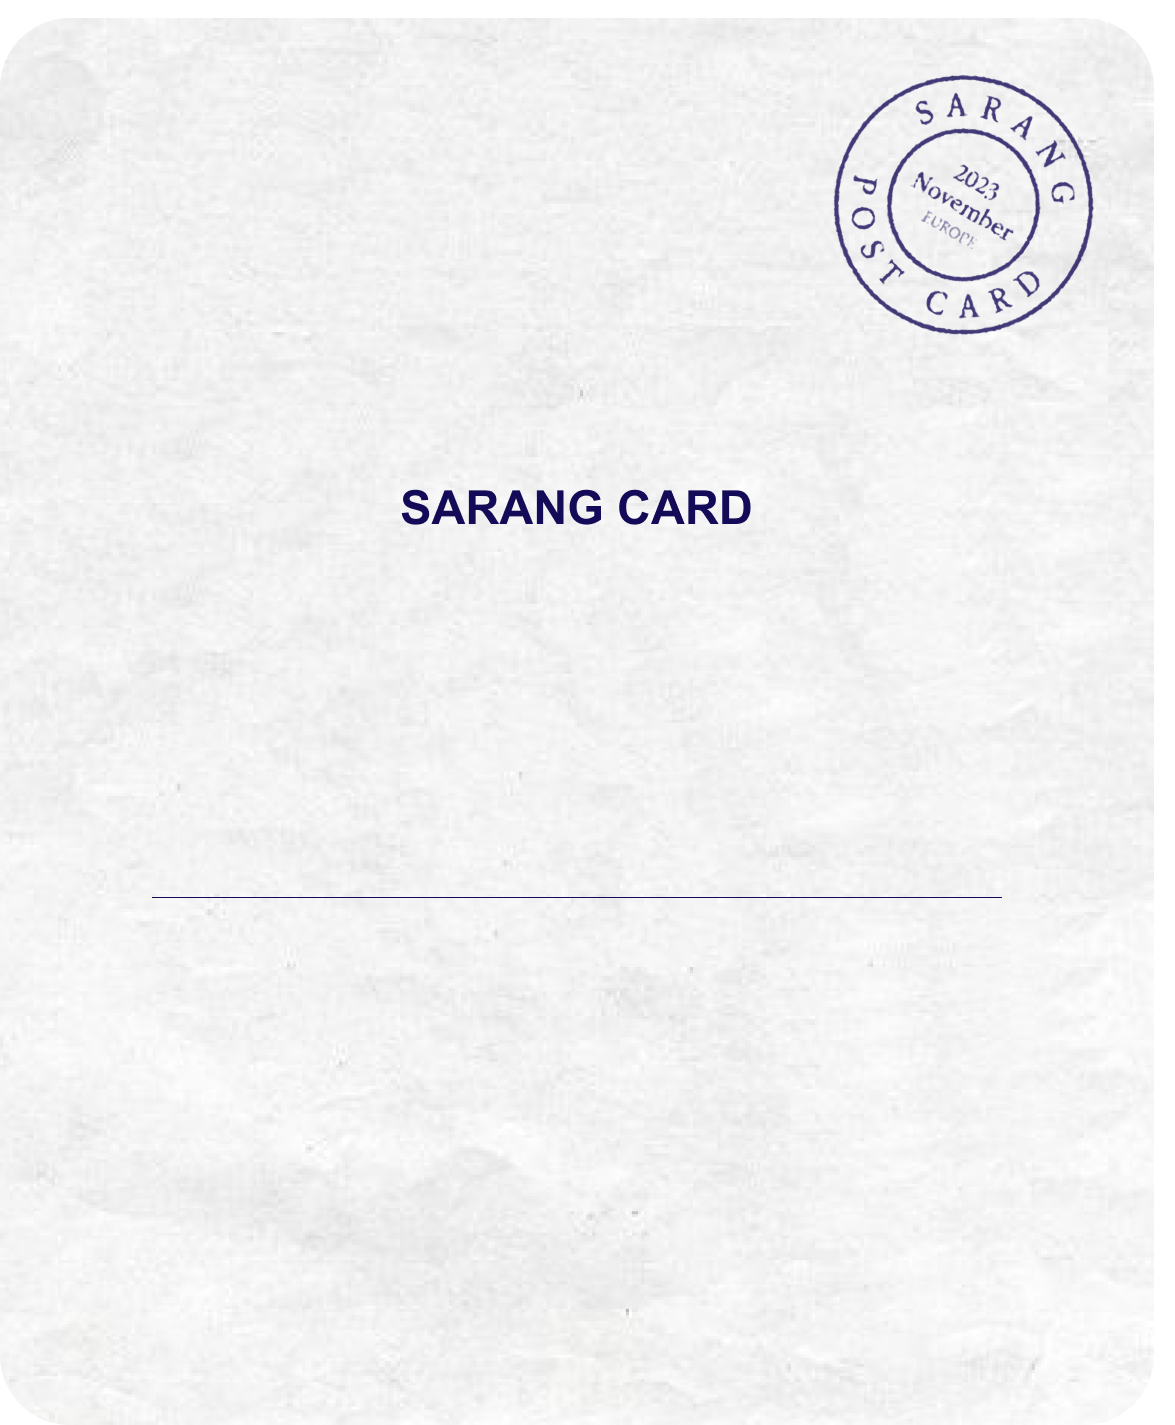
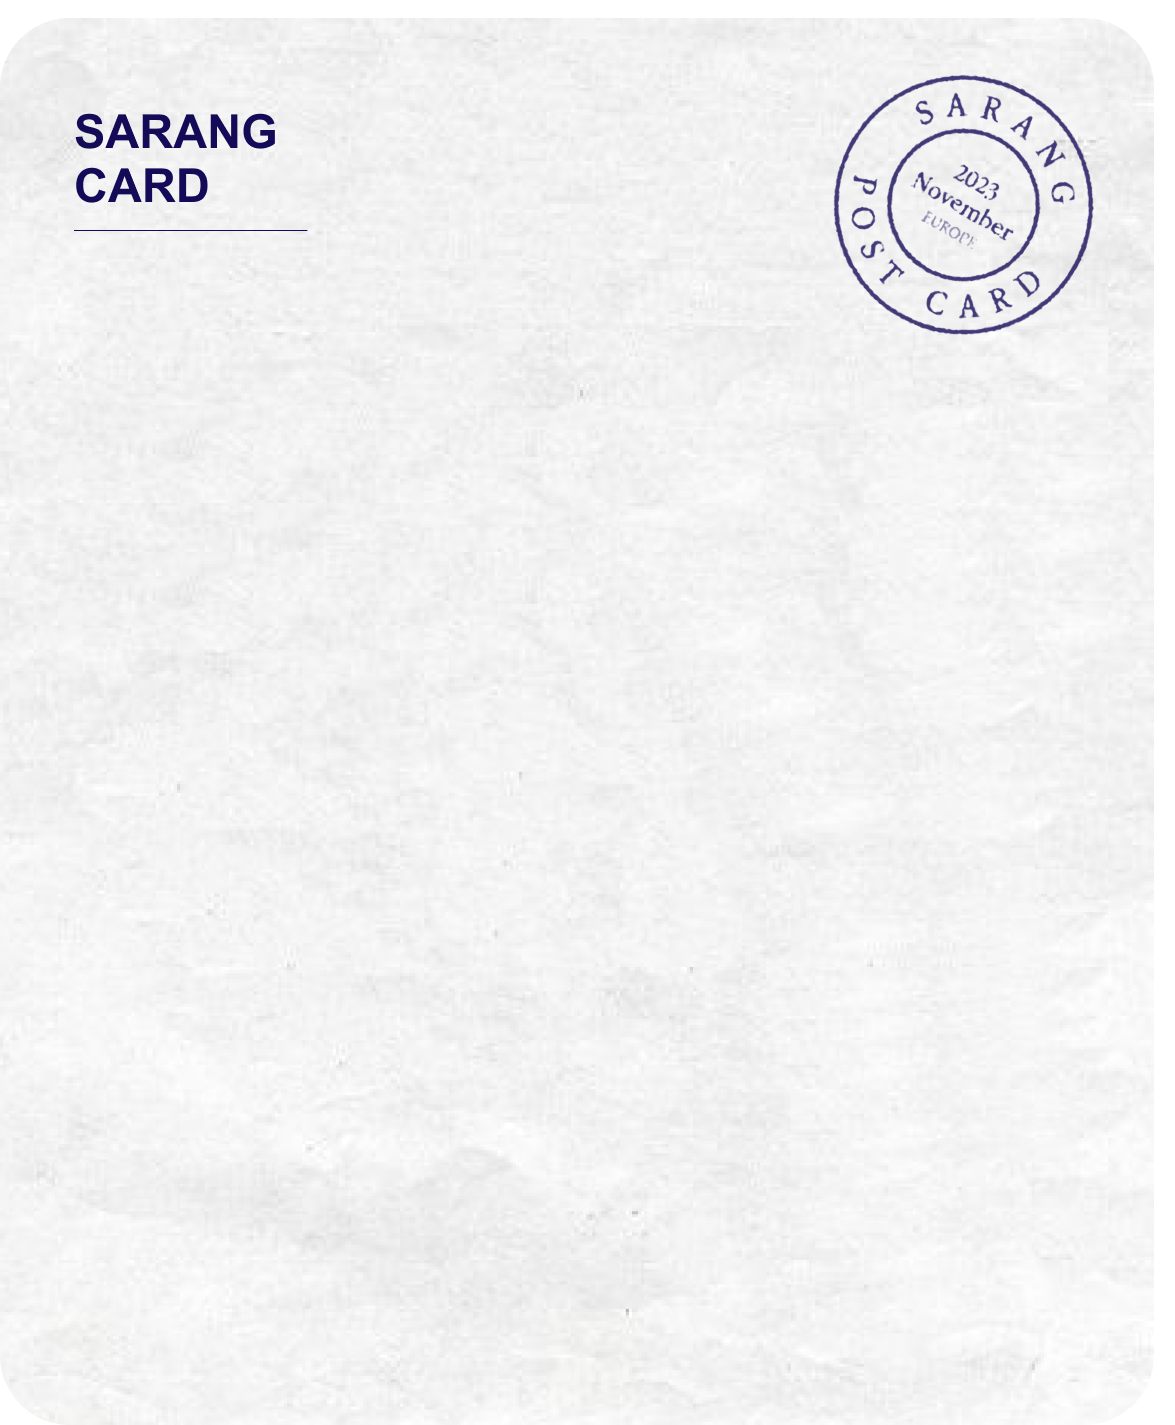
test

Changed region(s): [[0.0613, 0.0618, 0.2451, 0.1544], [0.337, 0.3396, 0.6434, 0.3705]]

diff --git a/src/components/Card.styled.css b/src/components/Card.styled.css
@@ -21,39 +21,62 @@
 }
 
 .card-text {
+    color: #140b58;
     position: absolute;
-    top: 15.5%;
+    top: 14.5%;
     left: 50%;
     transform: translate(-50%, -50%);
 
-    font-family: 'GillSans-bold';
+    font-family: Arial, Helvetica, sans-serif;
+    font-weight: bold;
 
-    font-size: 0.7rem;
+    font-size: 16px;
     text-align: center;
 }
 .card-text p {
-    width: 180px;
+    width: 160px;
+    word-break: break-all;
+    max-height: 56px;
     text-overflow: ellipsis;
     overflow: hidden;
 }
 
+.card-index {
+    position: absolute;
+
+    text-align: center;
+    top: 245px;
+    left: 0;
+    right: 0;
+    margin: auto;
+
+    font-family: Arial, Helvetica, sans-serif;
+    font-size: 9px;
+    color: #140b58;
+}
+
 .card-instagram {
+    color: #726d9d;
+
     display: flex;
     align-items: center;
-    gap: 4px;
+    gap: 1.4px;
 
     position: absolute;
-    top: 25.5%;
-    left: 50%;
-    transform: translate(-50%, -50%);
+    top: 3.9%;
+    left: 5.7%;
 
-    font-size: 0.6rem;
+    font-family: Arial, Helvetica, sans-serif;
+    font-size: 0.58rem;
+
     text-align: center;
 }
 
 .card-instagram p {
-    min-width: 24px;
+    margin-top: 10.5px;
+    min-width: 22px;
     font-family: 'GillSans';
+
     color: gray;
 }
 

diff --git a/src/components/AnswerModal.tsx b/src/components/AnswerModal.tsx
@@ -26,10 +26,12 @@ export const Modal: React.FC<Props> = ({
     });
     const [className, setClassName] = useState<string | null>(null);
     const inputs = useContext(InputContext);
-    const answerRef = React.useRef<HTMLInputElement>(null);
+    const answerRef = React.useRef<HTMLTextAreaElement>(null);
     const instaRef = React.useRef<HTMLInputElement>(null);
 
-    const handleAnswerInput = (event: React.ChangeEvent<HTMLInputElement>) => {
+    const handleAnswerInput = (
+        event: React.ChangeEvent<HTMLTextAreaElement>,
+    ) => {
         setInput((prev) => ({ ...prev, text: event.target.value }));
     };
 
@@ -107,11 +109,11 @@ export const Modal: React.FC<Props> = ({
                     className ? className : ''
                 }`}
             >
-                <input
+                <textarea
                     className="answer"
                     ref={answerRef}
-                    type="text"
                     onChange={handleAnswerInput}
+                    rows={3}
                     autoFocus
                     value={input.text}
                 />

diff --git a/src/components/AnswerModal.styled.css b/src/components/AnswerModal.styled.css
@@ -29,17 +29,17 @@
     z-index: -2;
 }
 
-.modal input.answer {
+.modal textarea.answer {
     position: absolute;
-    top: 51%;
+    top: 50%;
     left: 0;
     right: 0;
     margin: auto;
     width: calc(100% - 100px);
-    transform: translateY(60%);
 
-    font-family: 'GillSans-bold';
-    font-size: 1.16rem;
+    font-family: Arial, Helvetica, sans-serif;
+    font-size: 1.18rem;
+    font-weight: bold;
 
     background: transparent;
 
@@ -47,6 +47,8 @@
     outline: none;
 
     text-align: center;
+
+    resize: none;
 }
 
 .modal input.insta {
@@ -55,22 +57,20 @@
     border-bottom: 1px solid gray;
     background: transparent;
 
-    font-family: 'GillSans-bold';
+    font-family: Arial, Helvetica, sans-serif;
+    font-weight: bold;
 
-    width: 36px;
+    width: 54px;
 }
 
 .modal div.insta {
     display: flex;
     align-items: center;
-    justify-content: center;
     gap: 6px;
 
     position: absolute;
-    top: 91%;
-    right: 0;
-    left: 0;
-    margin: auto;
+    top: 18%;
+    left: 6%;
 }
 
 .modal-overlay {

diff --git a/src/hooks/useInputs.tsx b/src/hooks/useInputs.tsx
@@ -20,14 +20,20 @@ interface Props {
     children: React.ReactNode;
 }
 const InputProvider: React.FC<Props> = ({ children }) => {
-    const [inputs, setInputs] = useState<InputType[]>([]);
+    const localInputs = localStorage.getItem('inputs');
+
+    const [inputs, setInputs] = useState<InputType[]>(
+        localInputs ? JSON.parse(localInputs) : [],
+    );
 
     const createInputs = (input: InputType) => {
         setInputs((prev) => [...prev, input]);
+        localStorage.setItem('inputs', JSON.stringify(inputs));
     };
 
     const deleteInputs = (text: string) => {
         setInputs((prev) => prev.filter((input) => input.text !== text));
+        localStorage.setItem('inputs', JSON.stringify(inputs));
     };
 
     return (

diff --git a/src/components/Card.tsx b/src/components/Card.tsx
@@ -43,6 +43,7 @@ export const Card = ({ input, isCenter, index, total }: Props) => {
                 <img src={instagram} alt="instagram" width={8} height={8} />
                 <p>{input.instagram}</p>
             </div>
+            <p className="card-index">No.{index}</p>
         </div>
     );
 };

diff --git a/src/components/CardStack.styled.css b/src/components/CardStack.styled.css
@@ -14,7 +14,7 @@
 }
 
 .rotate {
-    animation: rotate 50s linear infinite;
+    /* animation: rotate 100s linear infinite; */
 }
 
 .fade-in {
